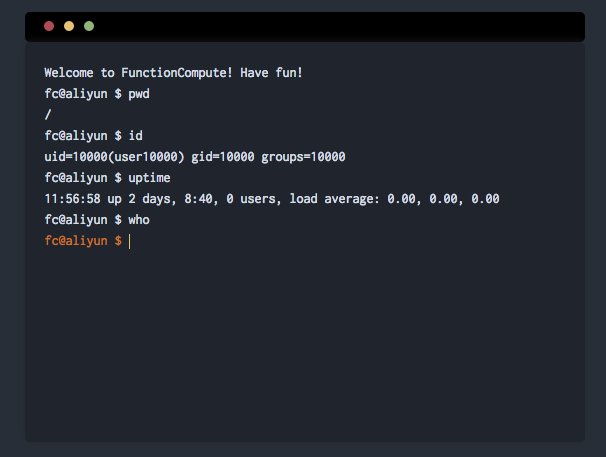
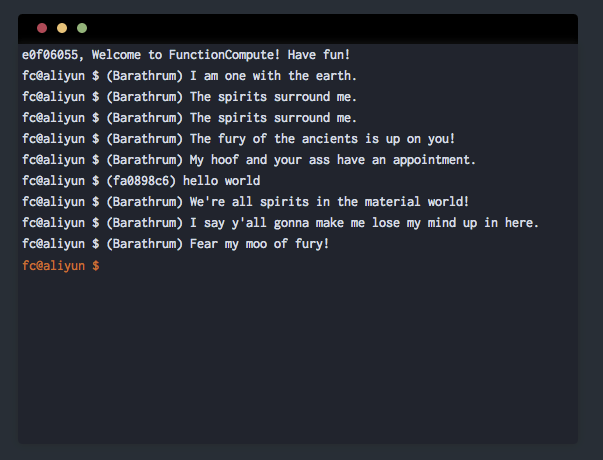
Update README/code/shot

Changed region(s): [[0.0299, 0.0, 0.9552, 0.6127], [0.9552, 0.0306, 0.9851, 0.0919]]

diff --git a/code/index.js b/code/index.js
@@ -1,0 +1,132 @@
+'use strict';
+
+const BUCKET = '<bucket>';
+const WORK_DIR = 'fc-chat/';
+const AG_NOTIFY_URL = '<url>';
+const AG_APP_KEY = '<app key>';
+const AG_APP_SECRET = '<app secret>';
+
+var co = require('co');
+var OSS = require('ali-oss');
+var AG = require('aliyun-api-gateway').Client;
+
+exports.register = function(event, context, callback) {
+  console.log('event: %s', event);
+  var evt = JSON.parse(event);
+
+  var deviceId = evt['headers']['x-ca-deviceid'];
+  var docId = evt['queryParameters']['id'];
+  var ossClient = getOSSClient(context);
+
+  var resp = {
+    'isBase64Encoded': 'false',
+    'statusCode': '200',
+    'body': {
+      'deviceId': deviceId,
+      'docId': docId,
+    },
+  };
+
+  co(function* () {
+    var onlineUsers = yield getOnlineUsers(ossClient, docId);
+    console.log('online users: %j', onlineUsers);
+    onlineUsers[deviceId] = 'online';
+    yield setOnlineUsers(ossClient, docId, onlineUsers);
+    console.log('set online users: %j', onlineUsers);
+
+    callback(null, resp);
+  }).catch(function(err) {
+    console.error(err);
+    callback(err);
+  });
+};
+
+exports.send = function(event, context, callback) {
+  console.log('event: %s', event);
+  var evt = JSON.parse(event);
+
+  var deviceId = evt['queryParameters']['deviceid'];
+  var docId = evt['queryParameters']['id'];
+  var message = evt['queryParameters']['msg'];
+  var agClient = new AG(AG_APP_KEY, AG_APP_SECRET);
+  var ossClient = getOSSClient(context);
+
+  var resp = {
+    'isBase64Encoded': 'false',
+    'statusCode': '200',
+    'body': {
+      'deviceId': deviceId,
+      'docId': docId,
+    },
+  };
+
+  co(function* () {
+    var onlineUsers = yield getOnlineUsers(ossClient, docId);
+    console.log('online users: %j', onlineUsers);
+
+    var keys = Object.keys(onlineUsers);
+    for (let i = 0; i < keys.length; i++) {
+      if (keys[i] != deviceId) {
+        var succ = yield notify(agClient, keys[i], deviceId, message);
+        if (!succ) {
+          delete onlineUsers[keys[i]];
+        }
+      }
+    }
+    yield setOnlineUsers(ossClient, docId, onlineUsers);
+    callback(null, resp);
+  }).catch(function(err) {
+    console.error(err);
+    callback(err);
+  });
+};
+
+var getOnlineUsers = function* (ossClient, docId) {
+  var usersKey = WORK_DIR + docId + '.json';
+  var users = {};
+  try {
+    var resp = yield ossClient.get(usersKey);
+    return JSON.parse(resp.content.toString());
+  } catch (err) {
+    // pass
+  }
+
+  return users;
+};
+
+var setOnlineUsers = function* (ossClient, docId, users) {
+  var usersKey = WORK_DIR + docId + '.json';
+  yield ossClient.put(usersKey, new Buffer(JSON.stringify(users)));
+};
+
+var notify = function* (agClient, deviceId, from, message) {
+  try {
+    var r = yield agClient.post(AG_NOTIFY_URL, {
+      data: {
+        from: from,
+        message: message,
+      },
+      headers: {
+        'x-ca-deviceid': deviceId,
+      },
+    });
+
+    console.log('notify resp: %j', r);
+  } catch (err) {
+    console.log('notify error: %j', err);
+    return false;
+  }
+  return true;
+};
+
+var getOSSClient = function(context) {
+  return new OSS({
+    accessKeyId: context.credentials.accessKeyId,
+    accessKeySecret: context.credentials.accessKeySecret,
+    stsToken: context.credentials.securityToken,
+    region: 'oss-'+context.region,
+    internal: true,
+    secure: true,
+    bucket: BUCKET,
+  });
+};

diff --git a/index.html b/index.html
@@ -60,7 +60,7 @@
     </style>
 </head>
 <body>
-  <a href="https://github.com/awesome-fc/give-me-a-shell-web">
+  <a href="https://github.com/awesome-fc/fc-websocket">
     <img style="position: absolute; top: 0; left: 0; border: 0;" src="https://camo.githubusercontent.com/82b228a3648bf44fc1163ef44c62fcc60081495e/68747470733a2f2f73332e616d617a6f6e6177732e636f6d2f6769746875622f726962626f6e732f666f726b6d655f6c6566745f7265645f6161303030302e706e67" alt="Fork me on GitHub" data-canonical-src="https://s3.amazonaws.com/github/ribbons/forkme_left_red_aa0000.png" />
   </a>
   <div id="bar" class='container'>

diff --git a/README.md b/README.md
@@ -1,13 +1,12 @@
-# Give me a shell, I can...
+# When FC meets websocket...
 
-Instantly run a linux shell in the cloud as your need, discard it when
-you're done.
+Develop an instant co-editor with ONLY [133 lines of code](code/index.js). Serverless, free-tier, pay-as-your-usage, and... Did we mention it also scales?
 
-Powered by Aliyun [FunctionCompute](https://www.aliyun.com/product/fc)
+Powered by Aliyun [FunctionCompute](https://www.aliyun.com/product/fc) & [ApiGateway](https://www.aliyun.com/product/apigateway)
 
 ![img](shot.png)
 
-Demo - http://fc-public.oss-cn-hangzhou.aliyuncs.com/demo/shell/index.html
+Demo - http://fc-public.oss-cn-hangzhou.aliyuncs.com/demo/co-edit/index.html?id=fc
 
 ### Run
 
